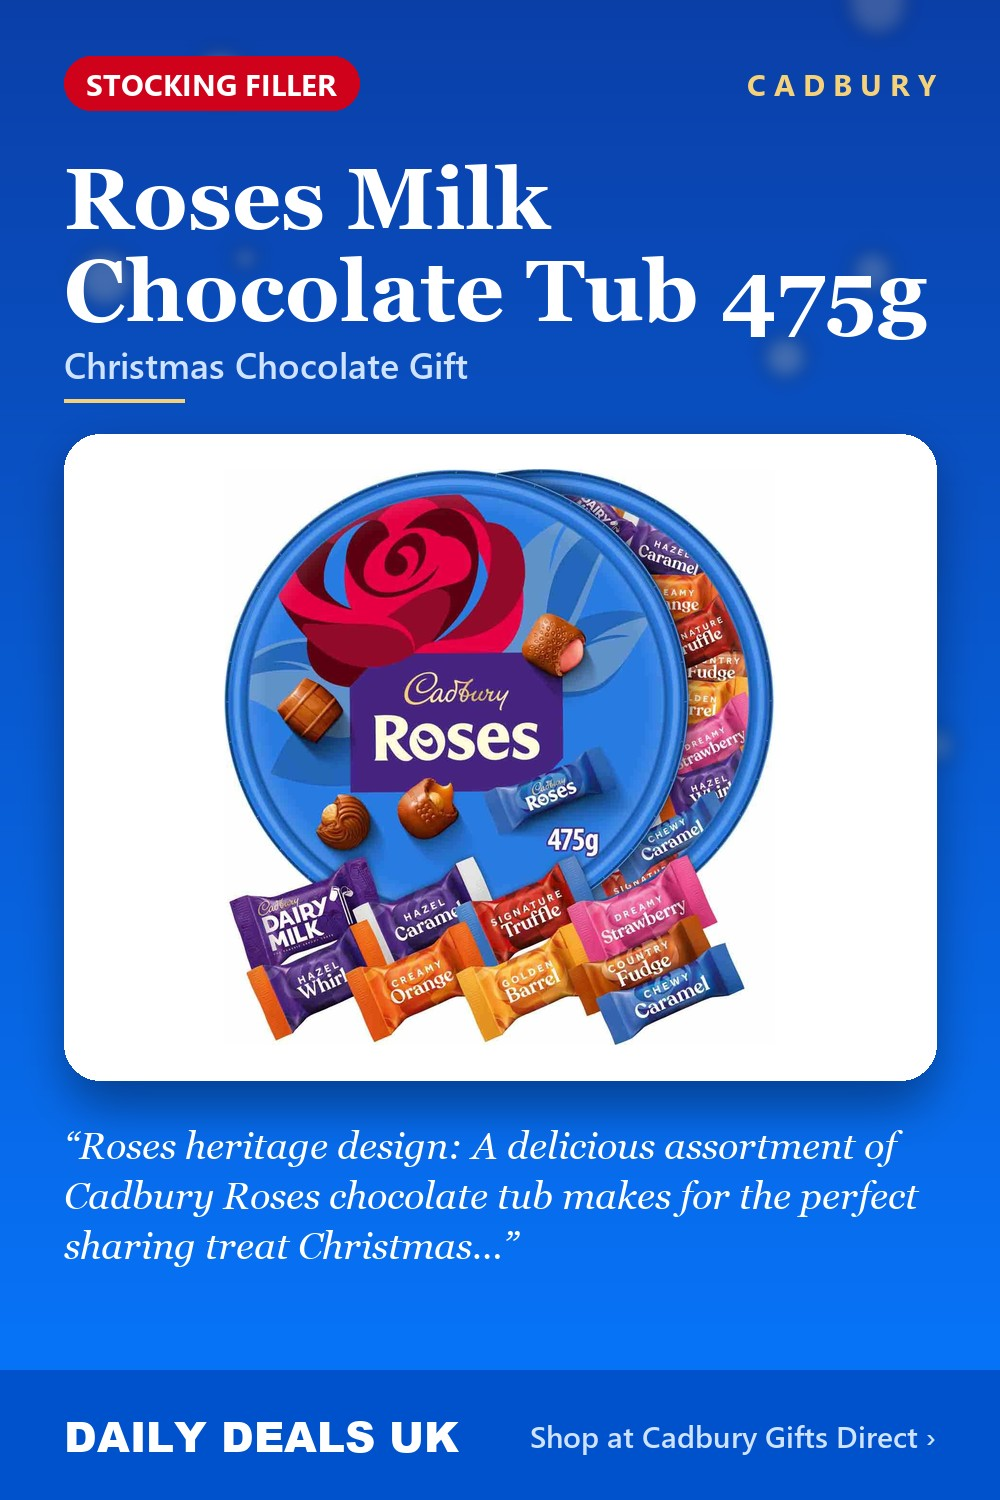
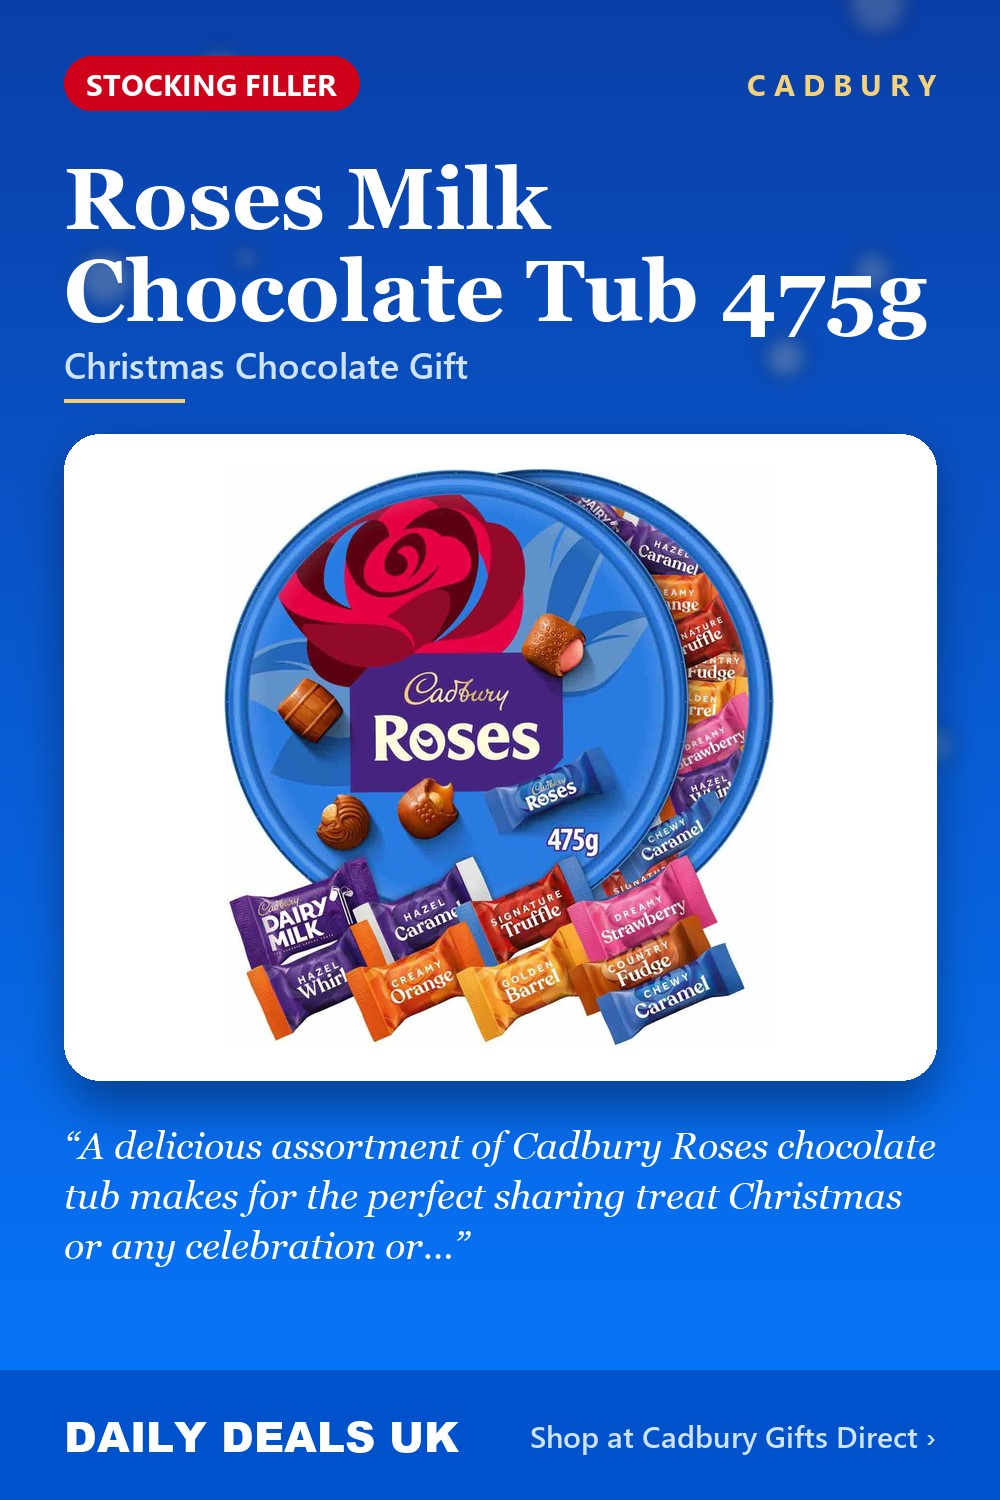
Gift pins: drop leftover 'Heading:' from merchant descriptions

Changed region(s): [[0.062, 0.736, 0.93, 0.8587]]

diff --git a/deals/gifts/cgd-44777982177/index.html b/deals/gifts/cgd-44777982177/index.html
@@ -1,7 +1,7 @@
 <!doctype html><html lang="en-GB"><head><meta charset="utf-8">
 <meta name="viewport" content="width=device-width,initial-scale=1"><title>Cadbury Roses Milk Chocolate Tub 475g Christmas Chocolate Gift | Daily Deals UK</title>
-<meta name="description" content="Roses heritage design: A delicious assortment of Cadbury Roses chocolate tub makes for the perfect sharing treat Christmas or any celebration or occasion Selection of flavours: Individually wrapped milk chocolates including: Dairy Milk, Chewy Caramel, Dreamy Strawberry, Creamy Orange, Golden Barrel,"><meta property="og:title" content="Cadbury Roses Milk Chocolate Tub 475g Christmas Chocolate Gift">
-<meta property="og:description" content="Roses heritage design: A delicious assortment of Cadbury Roses chocolate tub makes for the perfect sharing treat Christmas or any celebration or occasion Selection of flavours: Individually wrapped milk chocolates including: Dairy Milk, Chewy Caramel, Dreamy Strawberry, Creamy Orange, Golden Barrel,"><meta property="og:image" content="https://dailydealsuk.co.uk/deals/gifts/cgd-44777982177/pin.jpg">
+<meta name="description" content="A delicious assortment of Cadbury Roses chocolate tub makes for the perfect sharing treat Christmas or any celebration or occasion Selection of flavours: Individually wrapped milk chocolates including: Dairy Milk, Chewy Caramel, Dreamy Strawberry, Creamy Orange, Golden Barrel, Country Fudge, Hazelnu"><meta property="og:title" content="Cadbury Roses Milk Chocolate Tub 475g Christmas Chocolate Gift">
+<meta property="og:description" content="A delicious assortment of Cadbury Roses chocolate tub makes for the perfect sharing treat Christmas or any celebration or occasion Selection of flavours: Individually wrapped milk chocolates including: Dairy Milk, Chewy Caramel, Dreamy Strawberry, Creamy Orange, Golden Barrel, Country Fudge, Hazelnu"><meta property="og:image" content="https://dailydealsuk.co.uk/deals/gifts/cgd-44777982177/pin.jpg">
 <meta property="og:url" content="https://dailydealsuk.co.uk/deals/gifts/cgd-44777982177/"><meta name="pinterest-rich-pin" content="true">
 <link href="https://fonts.googleapis.com/css2?family=Archivo+Black&family=Poppins:wght@400;600&display=swap" rel="stylesheet">
 <style>:root{--bg:#F2F5FB;--surface:#fff;--text:#14213D;--dim:#5B6178;--brand:#0678FF;--accent:#D0021B;--border:#DBE3F0}
@@ -17,7 +17,7 @@ h1{font-family:'Archivo Black',sans-serif;font-size:clamp(26px,6vw,38px);line-he
 .disc{font-size:13px;color:var(--dim);margin-top:28px}</style></head><body><div class="wrap">
 <a class="home" href="https://dailydealsuk.co.uk/deals/">&larr; Daily Deals UK</a>
 <div class="card"><img src="photo.jpg" alt="Cadbury Roses Milk Chocolate Tub 475g Christmas Chocolate Gift"><span class="brand">Cadbury</span>
-<h1>Roses Milk Chocolate Tub 475g</h1><p class="kind">Christmas Chocolate Gift</p><p>Roses heritage design: A delicious assortment of Cadbury Roses chocolate tub makes for the perfect sharing treat Christmas or any celebration or occasion Selection of flavours: Individually wrapped milk chocolates including: Dairy Milk, Chewy Caramel, Dreamy Strawberry, Creamy Orange, Golden Barrel, Country Fudge, Hazelnut Caramel, Hazelnut Whirl, Signature Truffle. Sharing gift Spread joy or say thank you with this Roses sharing collection, ideal for parties and gatherings and team events. Gifting tub: The ideal affordable gift to show your appreciation or bring joy at Christmas with these luxurious chocolates from Cadbury Roses Tub collection Christmas essential: Make every moment special by treating yourself and loved ones to these iconic chocolate delights Looking for a special gift tin? Try our NEW premium design Roses Tin for 2026</p>
+<h1>Roses Milk Chocolate Tub 475g</h1><p class="kind">Christmas Chocolate Gift</p><p>A delicious assortment of Cadbury Roses chocolate tub makes for the perfect sharing treat Christmas or any celebration or occasion Selection of flavours: Individually wrapped milk chocolates including: Dairy Milk, Chewy Caramel, Dreamy Strawberry, Creamy Orange, Golden Barrel, Country Fudge, Hazelnut Caramel, Hazelnut Whirl, Signature Truffle. Sharing gift Spread joy or say thank you with this Roses sharing collection, ideal for parties and gatherings and team events. Gifting tub: The ideal affordable gift to show your appreciation or bring joy at Christmas with these luxurious chocolates from Cadbury Roses Tub collection Christmas essential: Make every moment special by treating yourself and loved ones to these iconic chocolate delights Looking for a special gift tin? Try our NEW premium design Roses Tin for 2026</p>
 
 <a class="btn" href="https://www.awin1.com/pclick.php?p=44777982177&amp;a=3105665&amp;m=736" rel="sponsored nofollow noopener" target="_blank">See it at Cadbury Gifts Direct</a></div>
 <p class="disc">This is an affiliate link (#ad): we may earn a small commission if you buy, at no extra cost to you.

diff --git a/tools/gifts.py b/tools/gifts.py
@@ -39,7 +39,7 @@ RUDE = re.compile(r"\b(fuck\w*|cunt\w*|shit\w*|knobs?|arse\w*|bums?|gusset|twat\
 
 def clean(text):
     text = html.unescape(re.sub(r"<[^>]+>", " ", text or ""))
-    text = re.sub(r"^[A-Z][A-Z &'-]{3,}:\s*", "", text.strip())     # "CHRISTMAS GIFT: Send a..." -> "Send a..."
+    text = re.sub(r"^[A-Z][\w &'-]{2,30}:\s*", "", text.strip())    # "CHRISTMAS GIFT: Send a..." -> "Send a..."
     return re.sub(r"\s+", " ", text).strip()
 
 
